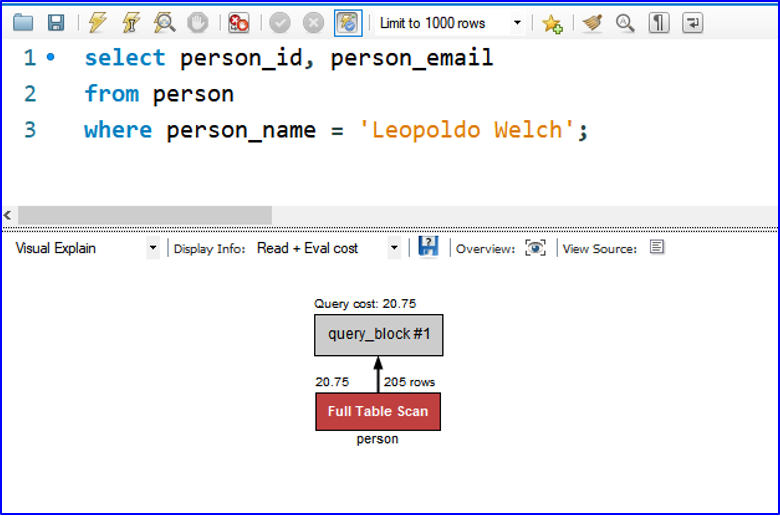
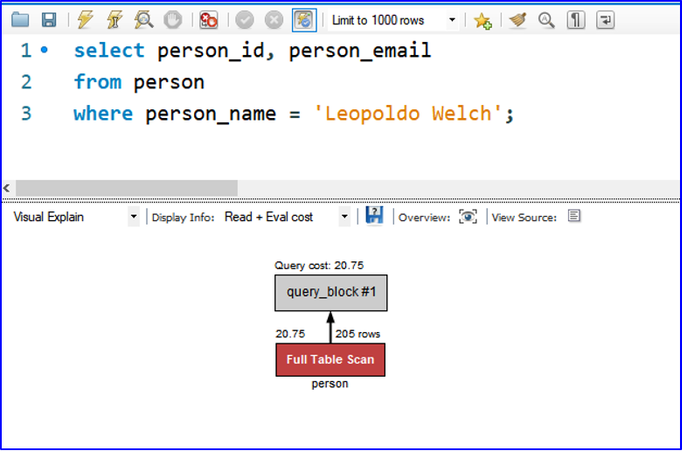
resize images

diff --git a/README.md b/README.md
@@ -72,15 +72,15 @@ The tables in our project contain indexes for the primary and foreign keys and w
 
 **Exhibit A**: run time without indexing. MySQL’s Explain view shows that query run time totaled 20.75 milliseconds as the search engine performed a full table scan.
 
-![Exhibit A](https://raw.githubusercontent.com/aaronfranke/ITCS-3160-Group-10/master/screenshots/exhibit_a.png =516x342)
+![Exhibit A](https://raw.githubusercontent.com/aaronfranke/ITCS-3160-Group-10/master/screenshots/exhibit_a.png)
 
 **Exhibit B**: index of column ‘person_name” on table ‘person.’
 
-![Exhibit B](https://raw.githubusercontent.com/aaronfranke/ITCS-3160-Group-10/master/screenshots/exhibit_b.png =516x342)
+![Exhibit B](https://raw.githubusercontent.com/aaronfranke/ITCS-3160-Group-10/master/screenshots/exhibit_b.png)
 
 **Exhibit C**: run time with indexing enabled. MySQL’s Explain view shows that query run time totaled 0.35 milliseconds yielding an increase greater than 98% in search efficiency.
 
-![Exhibit C](https://raw.githubusercontent.com/aaronfranke/ITCS-3160-Group-10/master/screenshots/exhibit_c.png =516x342)
+![Exhibit C](https://raw.githubusercontent.com/aaronfranke/ITCS-3160-Group-10/master/screenshots/exhibit_c.png)
 
 ## Web/App Implementation
 
